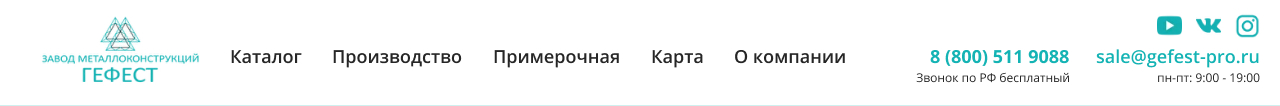
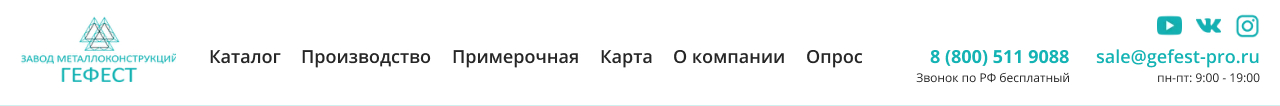
add: опрос

Changed region(s): [[0.0, 0.4811, 0.6875, 0.6226], [0.0625, 0.1698, 0.125, 0.4811], [0.0312, 0.6226, 0.125, 0.7925]]

diff --git a/opros.html b/opros.html
@@ -1,0 +1,48 @@
+<!DOCTYPE html>
+<html lang="en">
+<head>
+    <meta charset="UTF-8">
+    <meta name="viewport" content="width=device-width, initial-scale=1.0">
+    <title>Опрос - мобильная</title>
+    <style>
+        body {
+            margin: 0;
+            padding: 0;
+        }
+        img {
+            display: block;
+            width: 320px;
+            margin: 0 auto;
+        }
+        .header, .fixed {
+            position: fixed;
+            width: 100%;
+            left: 0;
+        }
+        .header {
+            top: 0;
+        }
+        .fixed {
+            bottom: 0;
+            padding: 0 0 30px;
+            background: #fff;
+        }
+        .main {
+            padding: 63px 0 53px;
+        }
+    </style>
+</head>
+<body>
+    <div class="header">
+        <img class="header-img" src="./assets/img/header.jpg" alt="">
+    </div>
+    
+    <div class="fixed">
+        <img class="fixed-img" src="./assets/img/fixed.jpg" alt="">
+    </div>
+    <div class="main">
+        <img class="main-img" src="./assets/img/opros.jpg" alt="">
+    </div>
+    
+</body>
+</html>

diff --git a/desk/opros.html b/desk/opros.html
@@ -1,0 +1,43 @@
+<!DOCTYPE html>
+<html lang="en">
+<head>
+    <meta charset="UTF-8">
+    <meta name="viewport" content="width=device-width, initial-scale=1.0">
+    <title>Опрос</title>
+    <style>
+        body {
+            margin: 0;
+            padding: 0;
+        }
+        img {
+            display: block;
+            width: 1280px;
+            margin: 0 auto;
+        }
+        .header, .fixed {
+            position: fixed;
+            width: 100%;
+            left: 0;
+        }
+        .header {
+            top: 0;
+        }
+        .main {
+            padding: 106px 0 0;
+        }
+    </style>
+</head>
+<body>
+    <div class="header">
+        <img class="header-img" src="./assets/img/header.jpg" alt="">
+    </div>
+    
+    <div class="main">
+        <img class="main-img" src="./assets/img/opros.jpg" alt="">
+    </div>
+    
+    <div class="footer">
+        <img class="footer-img" src="./assets/img/footer.jpg" alt="">
+    </div>
+</body>
+</html>
